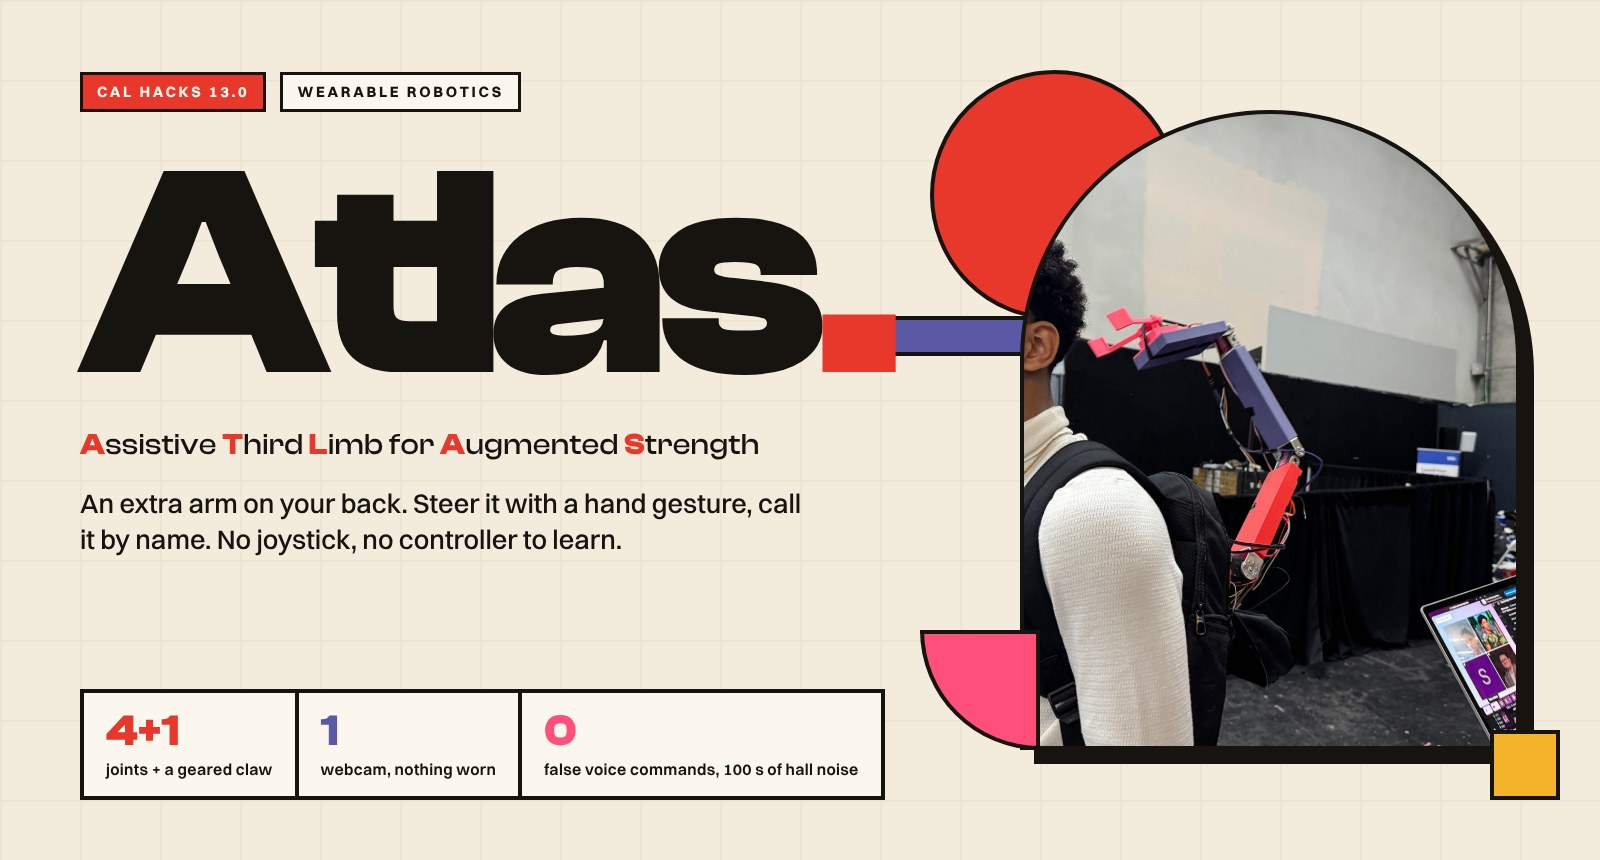
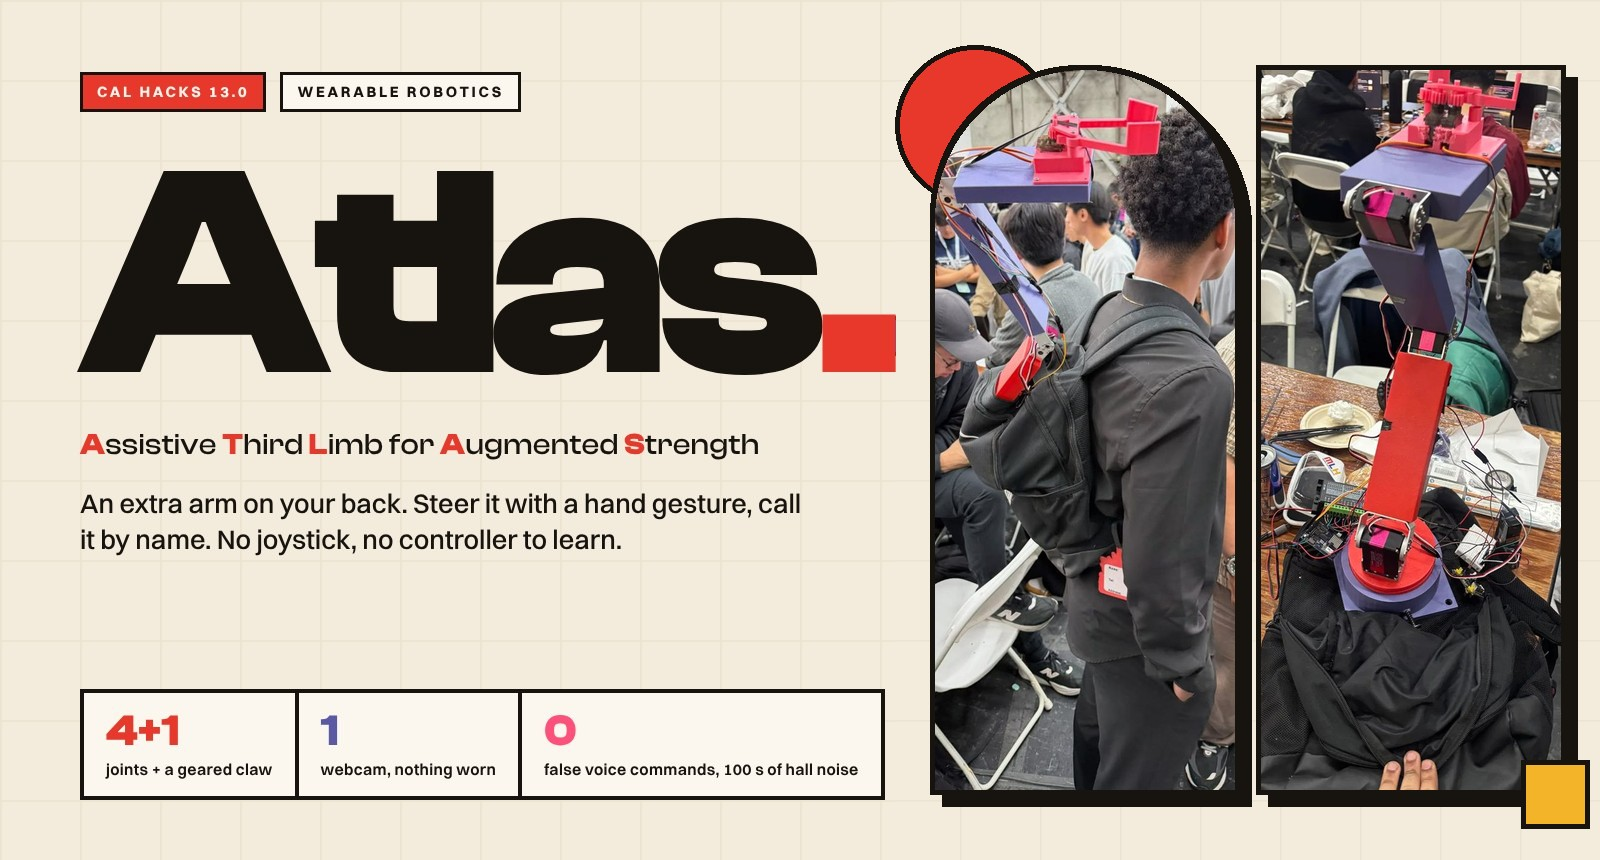
README: new header image

diff --git a/README.md b/README.md
@@ -1,4 +1,4 @@
-<p align="center"><img src="media/hero.jpg" alt="Atlas: a gesture-controlled robotic arm worn on a backpack" width="100%"></p>
+<p align="center"><img src="media/hero.jpg" alt="Atlas: the arm worn on a backpack in the Cal Hacks hall, and the arm on its backpack on the build table" width="100%"></p>
 
 <p align="center">
 <a href="https://mlh.io"><img alt="Built at an MLH hackathon" src="https://img.shields.io/badge/MLH-Cal%20Hacks%2013.0-e8382b?style=flat-square&labelColor=17130f"></a>
@@ -283,12 +283,17 @@ docs/                engineering notes, issue log, a debugging write-up, measure
   tests.
 - **Wiring and bring-up** of the PCA9685, the TB6600 and the UNO Q on the real arm.
 
+**Victor Espinoza** designed the arm: the CAD and the SolidWorks assembly in [`cad/`](cad/), which the
+simulator's link lengths come from, and the choice of motors.
+
+**Semir Haji** built it: the 3D printing and the mechanical assembly of the arm.
+
 ## Team
 
 | | |
 |:--|:--|
+| **Jacob Hailemariam** · University of Calgary | Software, embedded firmware, electronics, simulation, tests |
 | **Victor Espinoza** · UC Davis | Arm design, CAD, motors |
-| **Jacob Hailemariam** · University of Calgary | Embedded, firmware, control software |
 | **Semir Haji** · University of Calgary | Mechanical build, printing |
 
 ---
